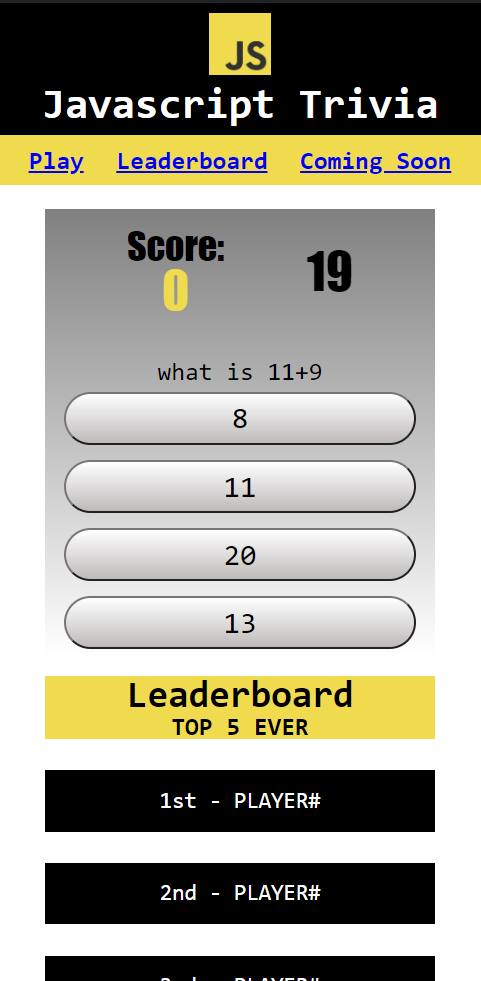
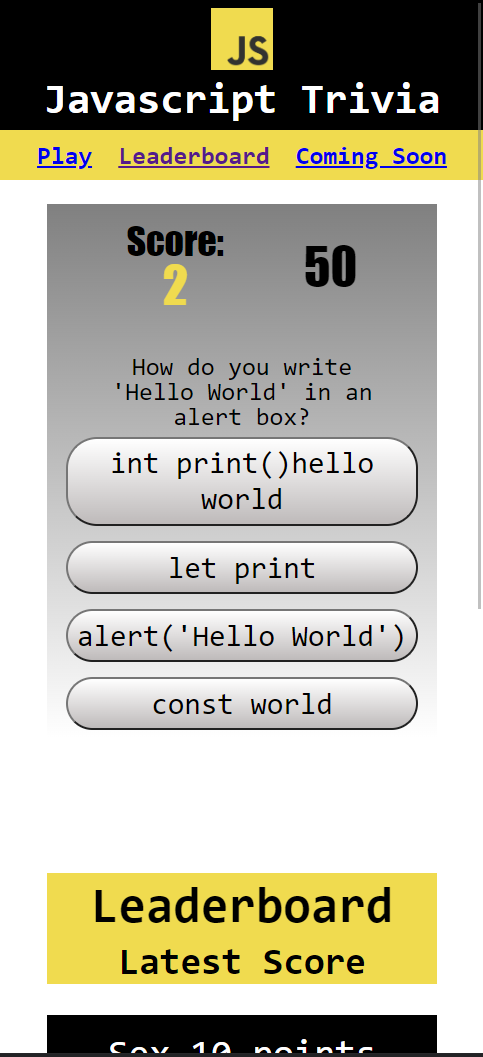
updated readme. updated screenshot

diff --git a/assets/script.js b/assets/script.js
@@ -331,7 +331,4 @@ function submitForm() {
 function timerSubtract() {
   timerTimeLeft -= 3
 }
-
-
 //leaderboard code
-

diff --git a/README.md b/README.md
@@ -1,10 +1,10 @@
 Project Title: Javascript Trivia.
 
-Description: Website with a Javascript themed trivia, and leaderboards for high scores. The website is responsive to the device's screen size, and the trivia will print random questions and answers everytime a new question is shown, or the website is refreshed.
+Description: Website with a Javascript themed trivia, and leaderboards for high scores. The website is responsive to the device's screen size, and the trivia will print random questions and answer sets when the play button is pressed.
 
-How to Use: There is no installation required. You can access the project using the provided link. Press play now to start the game. Select the right answer to score points. If the wrong answer is selected, the next question will be shown. the game is over until all questions are answered, or until the timer runs out.
+How to Use: There is no installation required. You can access the project using the provided link. Press play now to start the game. Select the right answer to score points. If the wrong answer is selected, a point will be subtracted, and 3 seconds will be taken away from the timer. the game is over when all questions are answered, or until the timer runs out.
 
--
+-https://piersalloum.github.io/Javascript-Trivia/
 
 References:
 -https://www.w3schools.com/
